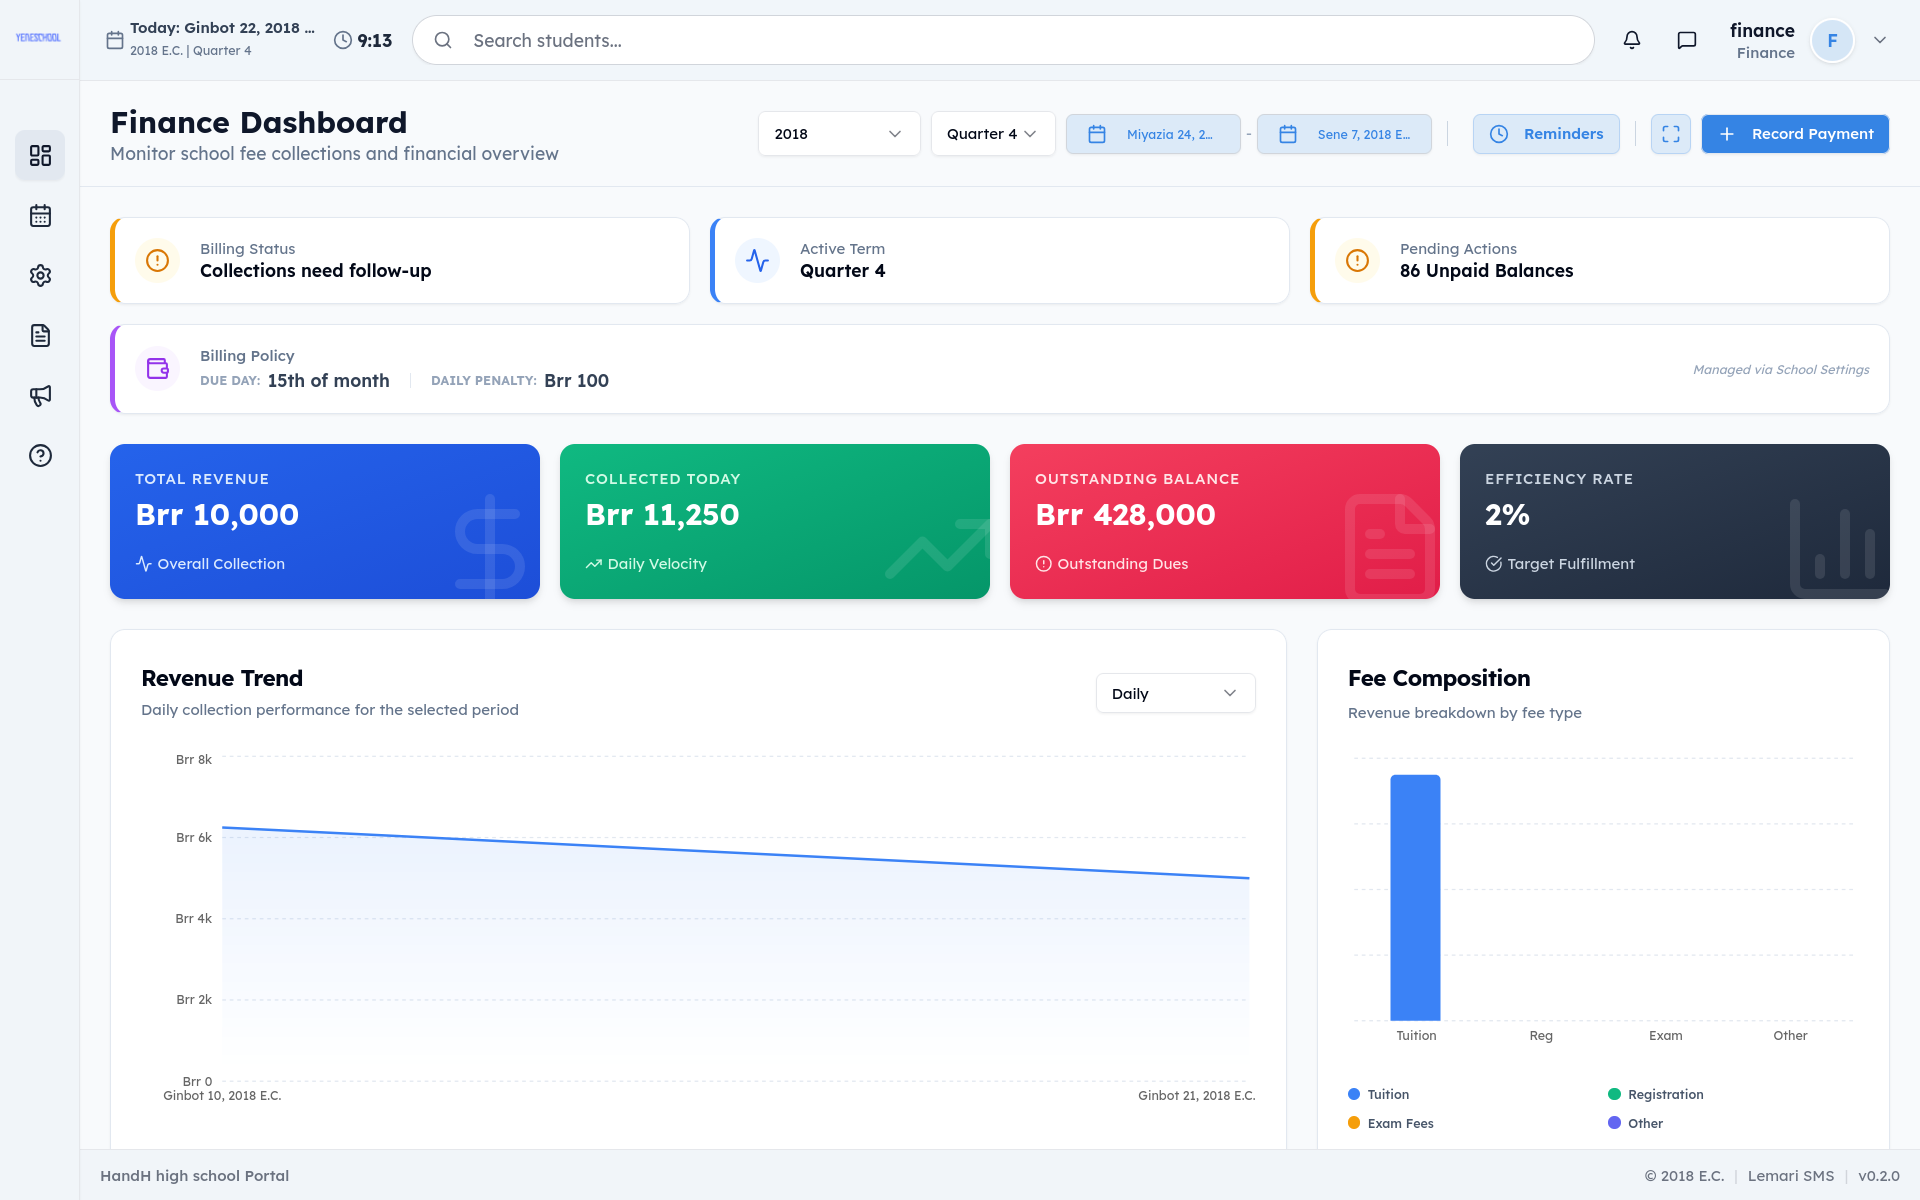
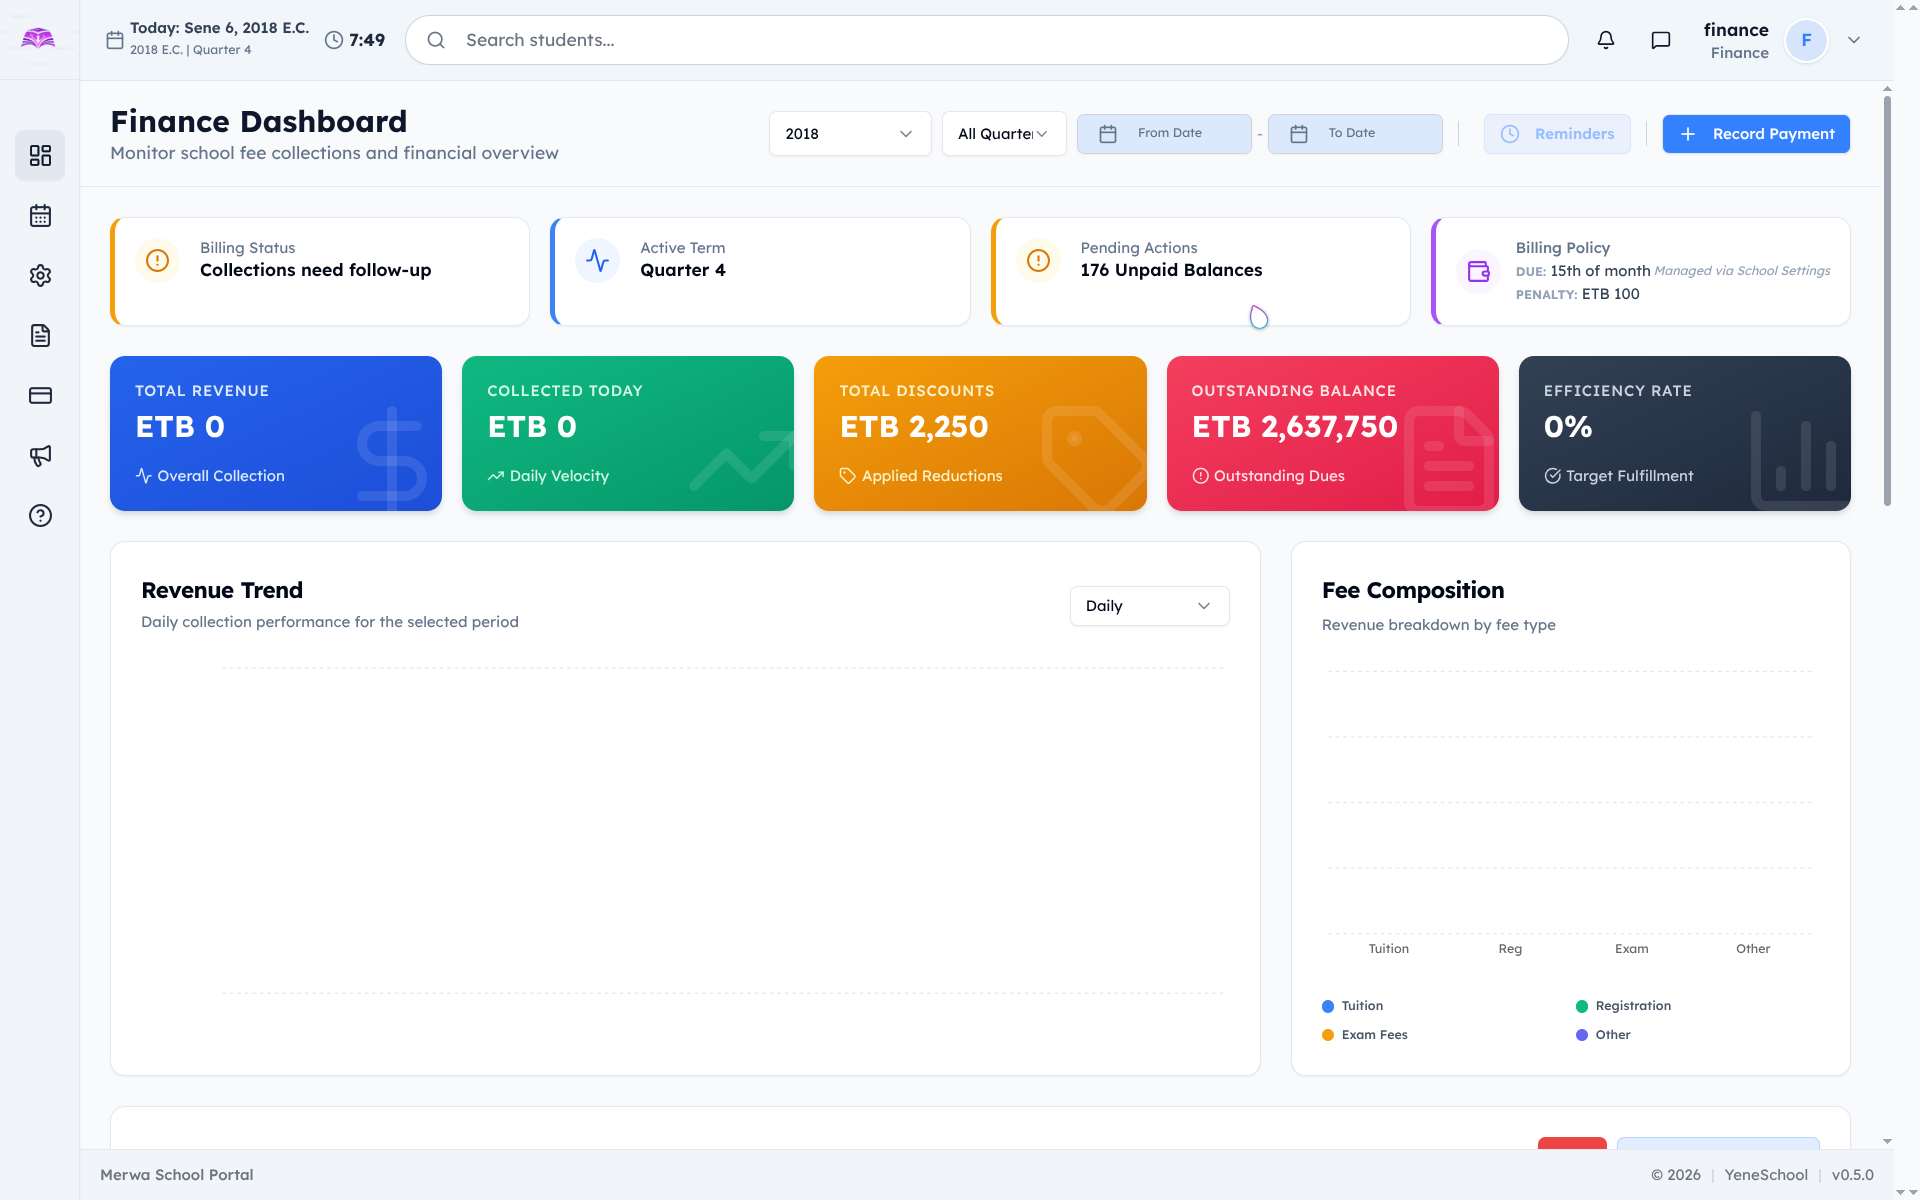
updated

diff --git a/styles.css b/styles.css
@@ -3305,6 +3305,13 @@ tr:last-child td {
   font-weight: 800;
 }
 
+.plan-students {
+  margin: 4px 0 0;
+  color: var(--muted);
+  font-size: 13px;
+  font-weight: 600;
+}
+
 .launch-price-box {
   margin: 28px 0 18px;
   padding: 18px;

diff --git a/src/i18n/am.js b/src/i18n/am.js
@@ -213,6 +213,7 @@ export const am = {
         core: {
           name: "\u1218\u1230\u1228\u1273\u12CA",
           audience: "\u12A0\u1290\u1235\u1270\u129B \u1275\u121D\u1205\u122D\u1275 \u1264\u1276\u127D",
+          students: "\u12A5\u123E\u12A8 200 \u1270\u121B\u122A\u12CE\u127D",
           monthlyPrice: "2,000 ብር/\u12C8\u122D",
           annualPrice: "18,000 ብር/\u12D3\u1218\u1275",
           monthlyNote: "\u1260\u12E8\u12C8\u1229 \u12ED\u12A8\u1348\u120B\u120D",
@@ -238,6 +239,7 @@ export const am = {
         standard: {
           name: "\u1218\u12F0\u1260\u129B",
           audience: "\u1260\u121B\u12F0\u130D \u120B\u12ED \u12EB\u1209 \u1275\u121D\u1205\u122D\u1275 \u1264\u1276\u127D",
+          students: "\u12A5\u123E\u12A8 2,000 \u1270\u121B\u122A\u12CE\u127D",
           monthlyPrice: "5,000 ብር/\u12C8\u122D",
           annualPrice: "45,000 ብር/\u12D3\u1218\u1275",
           monthlyNote: "\u1260\u12E8\u12C8\u1229 \u12ED\u12A8\u1348\u120B\u120D",
@@ -264,6 +266,7 @@ export const am = {
         ultimate: {
           name: "\u1219\u1209",
           audience: "\u1275\u120B\u120D\u1245 \u1275\u121D\u1205\u122D\u1275 \u1264\u1276\u127D",
+          students: "\u12E9\u120D\u1270\u1308\u12F0\u1260 \u1270\u121B\u122A\u12CE\u127D",
           monthlyPrice: "10,000 ብር/\u12C8\u122D",
           annualPrice: "90,000 ብር/\u12D3\u1218\u1275",
           monthlyNote: "\u1260\u12E8\u12C8\u1229 \u12ED\u12A8\u1348\u120B\u120D",

diff --git a/src/i18n/en.js b/src/i18n/en.js
@@ -218,6 +218,7 @@ export const en = {
           core: {
             name: "CORE",
             audience: "Small Schools",
+            students: "Up to 200 students",
             monthlyPrice: "2,000 ETB/mo",
             annualPrice: "18,000 ETB/year",
             monthlyNote: "Billed monthly",
@@ -243,6 +244,7 @@ export const en = {
           standard: {
             name: "STANDARD",
             audience: "Growing Schools",
+            students: "Up to 2,000 students",
             monthlyPrice: "5,000 ETB/mo",
             annualPrice: "45,000 ETB/year",
             monthlyNote: "Billed monthly",
@@ -269,6 +271,7 @@ export const en = {
           ultimate: {
             name: "ULTIMATE",
             audience: "Large Schools",
+            students: "Unlimited students",
             monthlyPrice: "10,000 ETB/mo",
             annualPrice: "90,000 ETB/year",
             monthlyNote: "Billed monthly",

diff --git a/src/pages/HomePage.jsx b/src/pages/HomePage.jsx
@@ -315,6 +315,7 @@ export default function HomePage() {
               <div className="plan-header">
                 <p className="plan-name">CORE</p>
                 <p className="plan-audience">Small Schools</p>
+                <p className="plan-students">Up to 200 students</p>
               </div>
               <div className="launch-price-box">
                 <div className="price-meta">
@@ -358,6 +359,7 @@ export default function HomePage() {
               <div className="plan-header">
                 <p className="plan-name">STANDARD</p>
                 <p className="plan-audience">Growing Schools</p>
+                <p className="plan-students">Up to 2,000 students</p>
               </div>
               <div className="launch-price-box">
                 <div className="price-meta">
@@ -397,6 +399,7 @@ export default function HomePage() {
               <div className="plan-header">
                 <p className="plan-name">ULTIMATE</p>
                 <p className="plan-audience">Large Schools</p>
+                <p className="plan-students">Unlimited students</p>
               </div>
               <div className="launch-price-box">
                 <div className="price-meta">